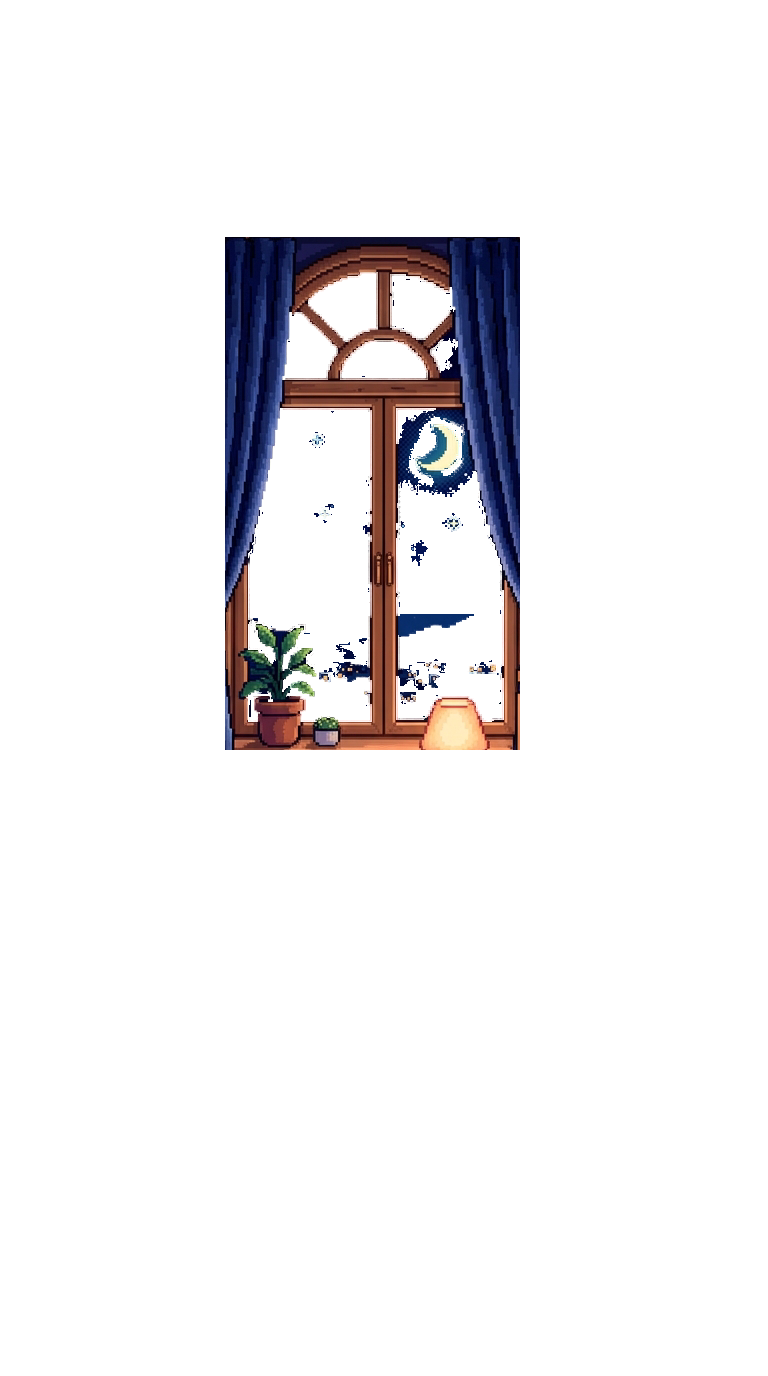
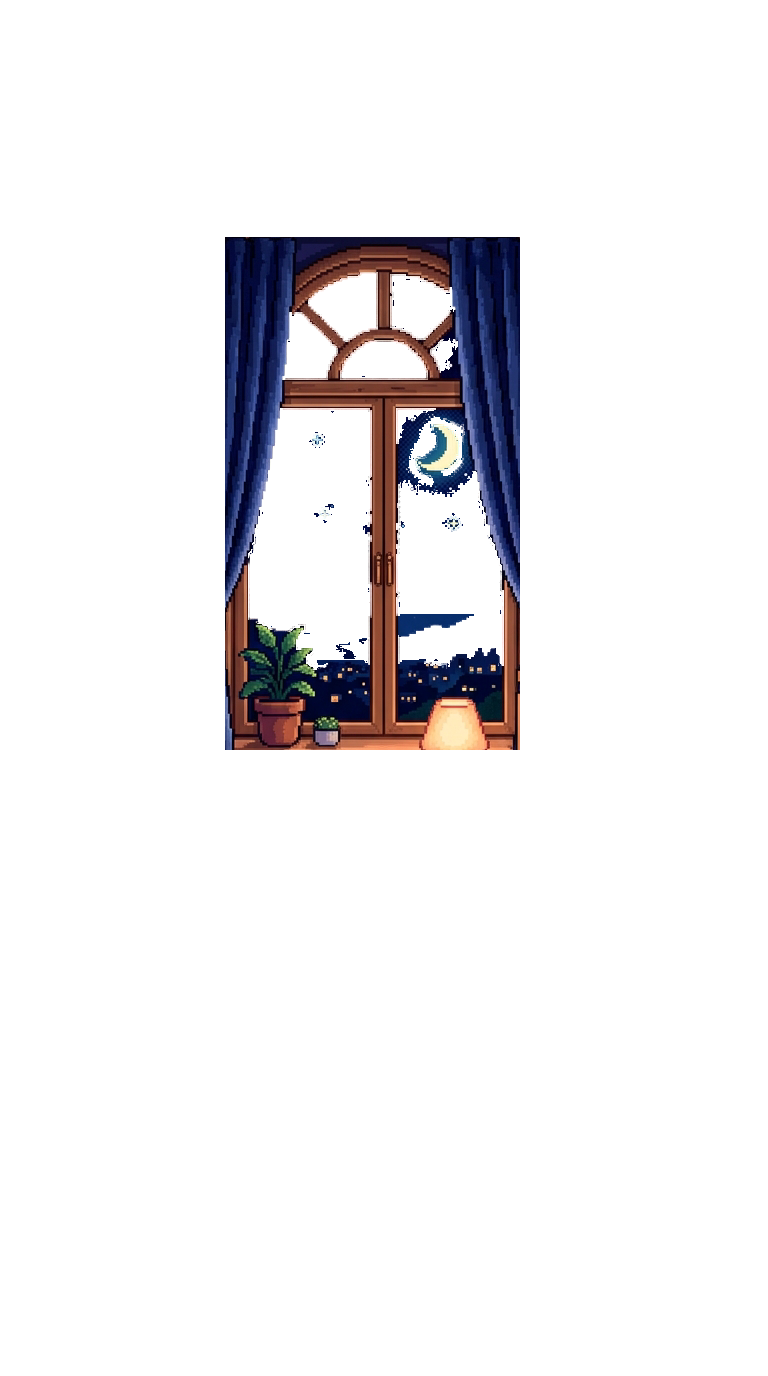
fix(bedroom): the town was seeded as sky, so rain mottled it instead of falling
Rain over the bedroom left the bottom of the glass blotchy -- the hillside
and the lit town came out as a patchwork of tinted and untinted lumps.

Nothing was wrong with the rain, and nothing was escaping the window: the
weather's footprint is exactly the aperture, every pixel of it behind the
cut. Diffed the room rendered with and against without, and the pixels the
weather touches are the panes and nothing else -- not the wall, the
curtains, the rod, the plant, the sill or the floor.

The cut was the problem. Sixteen of the bedroom's forty-five flood seeds
were planted in the town and the hillside, so the flood was told that the
dark blue haze down there is sky. It holed everything it could reach --
roofs, streets, the hill face -- and then stopped at each building and each
ridge, whose colours it could not step onto. That leaves scenery as islands
standing in a field of holes. A sky effect with no wash hides this; rain
paints a flat tint through every hole, so the islands stay at their painted
value and the whole lower pane goes mottled.

The town is not sky. Those sixteen seeds are gone, and the hole now stops
along the painted ridgeline -- which matters, because the boundary has to
coincide with an edge the artist drew or it reads as a line ruled across the
glass. Sky coverage 39.0% -> 34.0%.

Dropping them exposed the second half: one 187px pocket of plain sky, the
exact colour of the sky around it, that the flood had never reached from any
[…]

diff --git a/src/lib/roomWindows.ts b/src/lib/roomWindows.ts
@@ -28,50 +28,50 @@ export const ROOM_WINDOWS: Record<string, RoomWindow> = {
     label: 'LIVING ROOM',
     art: { w: 768, h: 1376 },
     box: { l: 0.47396, t: 0.10538, w: 0.45313, h: 0.29433 },
-    day: '/weather/home.png?v=4',
-    night: '/weather/home_night.png?v=4',
+    day: '/weather/home.png?v=5',
+    night: '/weather/home_night.png?v=5',
   },
   feed: {
     label: 'KITCHEN',
     art: { w: 768, h: 1376 },
     box: { l: 0.322, t: 0.283, w: 0.342, h: 0.222 },
-    day: '/weather/feed.png?v=4',
-    night: '/weather/feed_night.png?v=4',
+    day: '/weather/feed.png?v=5',
+    night: '/weather/feed_night.png?v=5',
   },
   play: {
     label: 'PLAYROOM',
     art: { w: 768, h: 1376 },
     box: { l: 0.8386, t: 0.1963, w: 0.15625, h: 0.306 },
-    day: '/weather/play.png?v=4',
-    night: '/weather/play_night.png?v=4',
+    day: '/weather/play.png?v=5',
+    night: '/weather/play_night.png?v=5',
   },
   sleep: {
     label: 'BEDROOM',
     art: { w: 768, h: 1376 },
     box: { l: 0.29297, t: 0.17224, w: 0.38412, h: 0.37282 },
-    day: '/weather/sleep.png?v=4',
-    night: '/weather/sleep.png?v=4',
+    day: '/weather/sleep.png?v=5',
+    night: '/weather/sleep.png?v=5',
   },
   wash: {
     label: 'BATHROOM',
     art: { w: 768, h: 1376 },
     box: { l: 0.755208, t: 0.164244, w: 0.179688, h: 0.175872 },
-    day: '/weather/wash.png?v=4',
-    night: '/weather/wash_night.png?v=4',
+    day: '/weather/wash.png?v=5',
+    night: '/weather/wash_night.png?v=5',
   },
   chemistry: {
     label: 'LAB',
     art: { w: 941, h: 1672 },
     box: { l: 0.37, t: 0.115, w: 0.285, h: 0.275 },
-    day: '/weather/chemistry.png?v=4',
-    night: '/weather/chemistry_night.png?v=4',
+    day: '/weather/chemistry.png?v=5',
+    night: '/weather/chemistry_night.png?v=5',
   },
   talk: {
     label: 'ATTIC',
     art: { w: 941, h: 1672 },
     box: { l: 0.792, t: 0.205, w: 0.18, h: 0.14 },
-    day: '/weather/talk.png?v=4',
-    night: '/weather/talk_night.png?v=4',
+    day: '/weather/talk.png?v=5',
+    night: '/weather/talk_night.png?v=5',
   },
 }
 

diff --git a/scripts/build_window_frames.py b/scripts/build_window_frames.py
@@ -126,7 +126,9 @@ DEFAULT_JSON = os.path.join(ROOT, 'scripts', 'window_seeds.json')
 #   3  hole edges matted instead of eroded and repainted
 #   4  bedroom sky repainted (the dither band across the glass), so the
 #      cut had to be re-flooded or it would have redrawn the old stipple
-ASSET_V = 4
+#   5  bedroom: the town and the hillside are no longer seeded as sky, and the
+#      one pocket of real sky the flood never reached is seeded explicitly
+ASSET_V = 5
 
 
 def luma(c):
